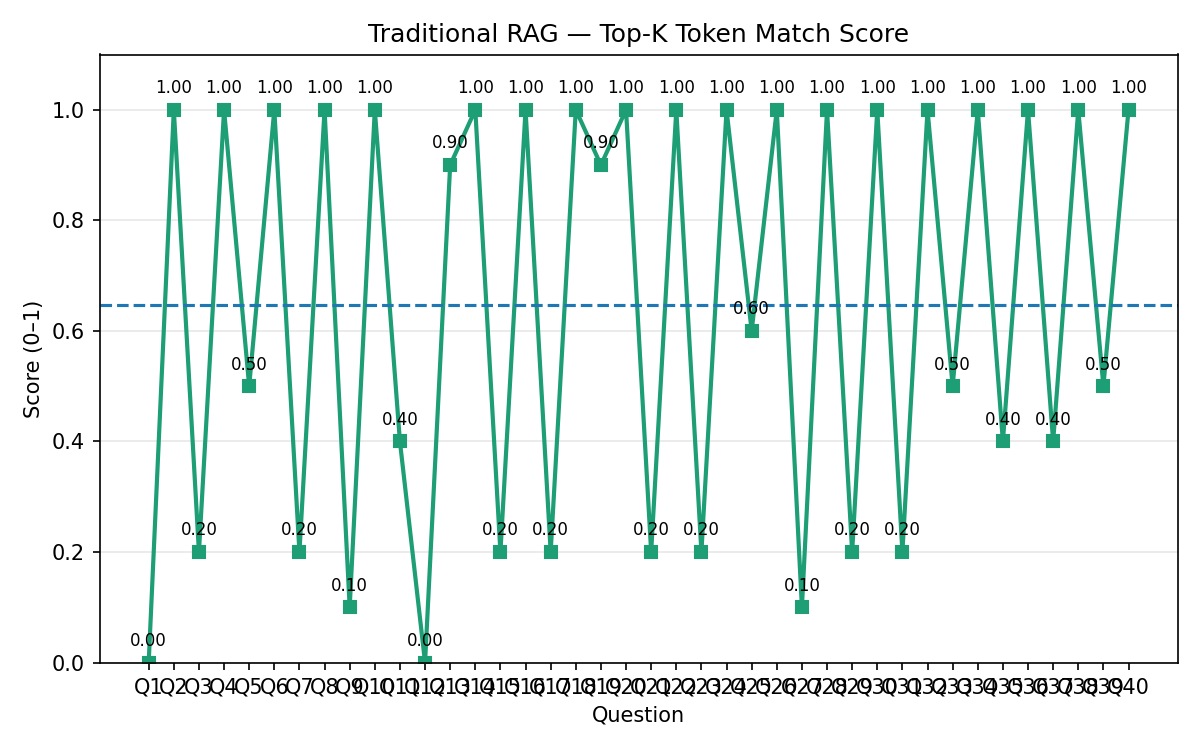
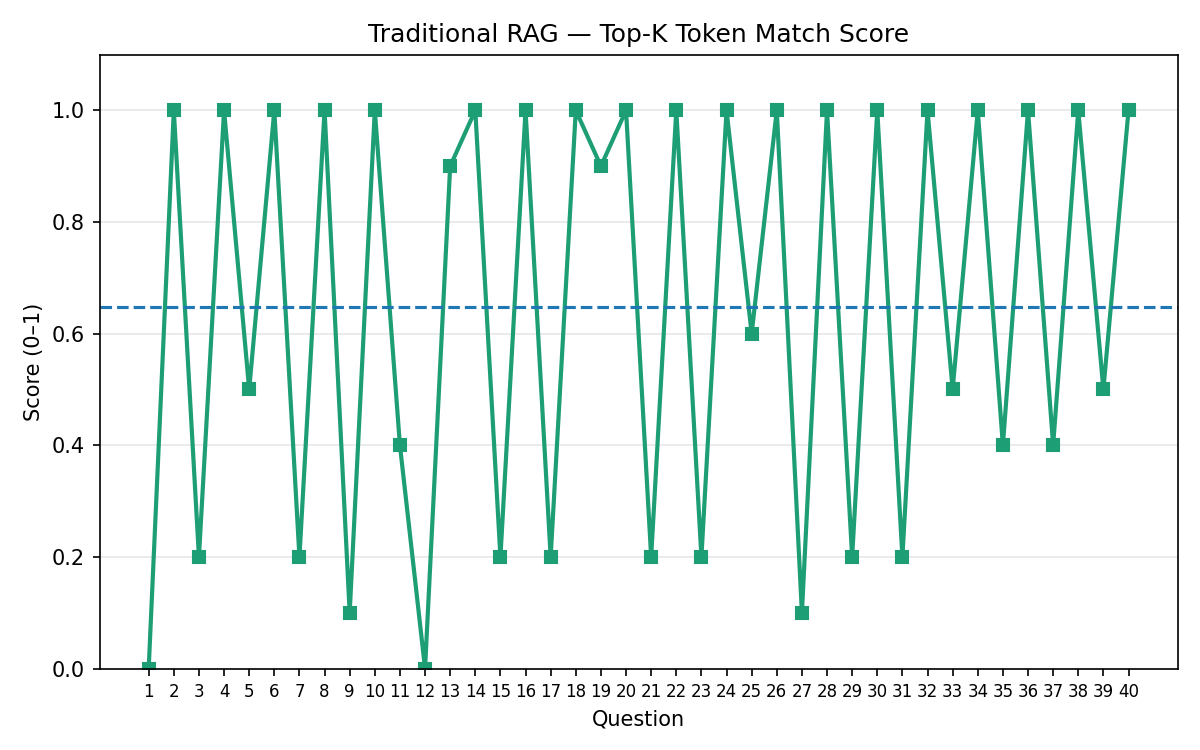
added code for proper graph representation

diff --git a/evaluation/evaluate.py b/evaluation/evaluate.py
@@ -109,7 +109,7 @@ def run_evaluation(responses: pd.DataFrame, qa: pd.DataFrame) -> pd.DataFrame:
 
 def plot(eval_df: pd.DataFrame):
     q_ids    = eval_df["id"].tolist()
-    q_labels = [f"Q{i}" for i in q_ids]
+    q_labels = [f"{i}" for i in q_ids]
 
     kg_times = eval_df["kg_time"].tolist()
     tr_times = eval_df["trad_time"].tolist()
@@ -129,6 +129,7 @@ def plot(eval_df: pd.DataFrame):
 
     plt.title("Response Time per Question")
     plt.xlabel("Question")
+    plt.xticks(fontsize=8)
     plt.ylabel("Time (s)")
     plt.grid(axis="y", alpha=0.3)
     plt.legend()
@@ -144,14 +145,10 @@ def plot(eval_df: pd.DataFrame):
 
     plt.plot(q_labels, kg_f1, marker="o", linewidth=2, color=KG_COLOR)
 
-    for i, val in enumerate(kg_f1):
-        plt.annotate(f"{val:.2f}", (q_labels[i], val),
-                     textcoords="offset points", xytext=(0, 8),
-                     ha='center', fontsize=8)
-
     plt.axhline(sum(kg_f1)/len(kg_f1), linestyle="--")
     plt.title("KG-RAG — Top-K Token Match Score")
     plt.xlabel("Question")
+    plt.xticks(fontsize=8)
     plt.ylabel("Score (0–1)")
     plt.ylim(0, 1.1)
     plt.grid(axis="y", alpha=0.3)
@@ -167,14 +164,10 @@ def plot(eval_df: pd.DataFrame):
 
     plt.plot(q_labels, tr_f1, marker="s", linewidth=2, color=TRAD_COLOR)
 
-    for i, val in enumerate(tr_f1):
-        plt.annotate(f"{val:.2f}", (q_labels[i], val),
-                     textcoords="offset points", xytext=(0, 8),
-                     ha='center', fontsize=8)
-
     plt.axhline(sum(tr_f1)/len(tr_f1), linestyle="--")
     plt.title("Traditional RAG — Top-K Token Match Score")
     plt.xlabel("Question")
+    plt.xticks(fontsize=8)
     plt.ylabel("Score (0–1)")
     plt.ylim(0, 1.1)
     plt.grid(axis="y", alpha=0.3)